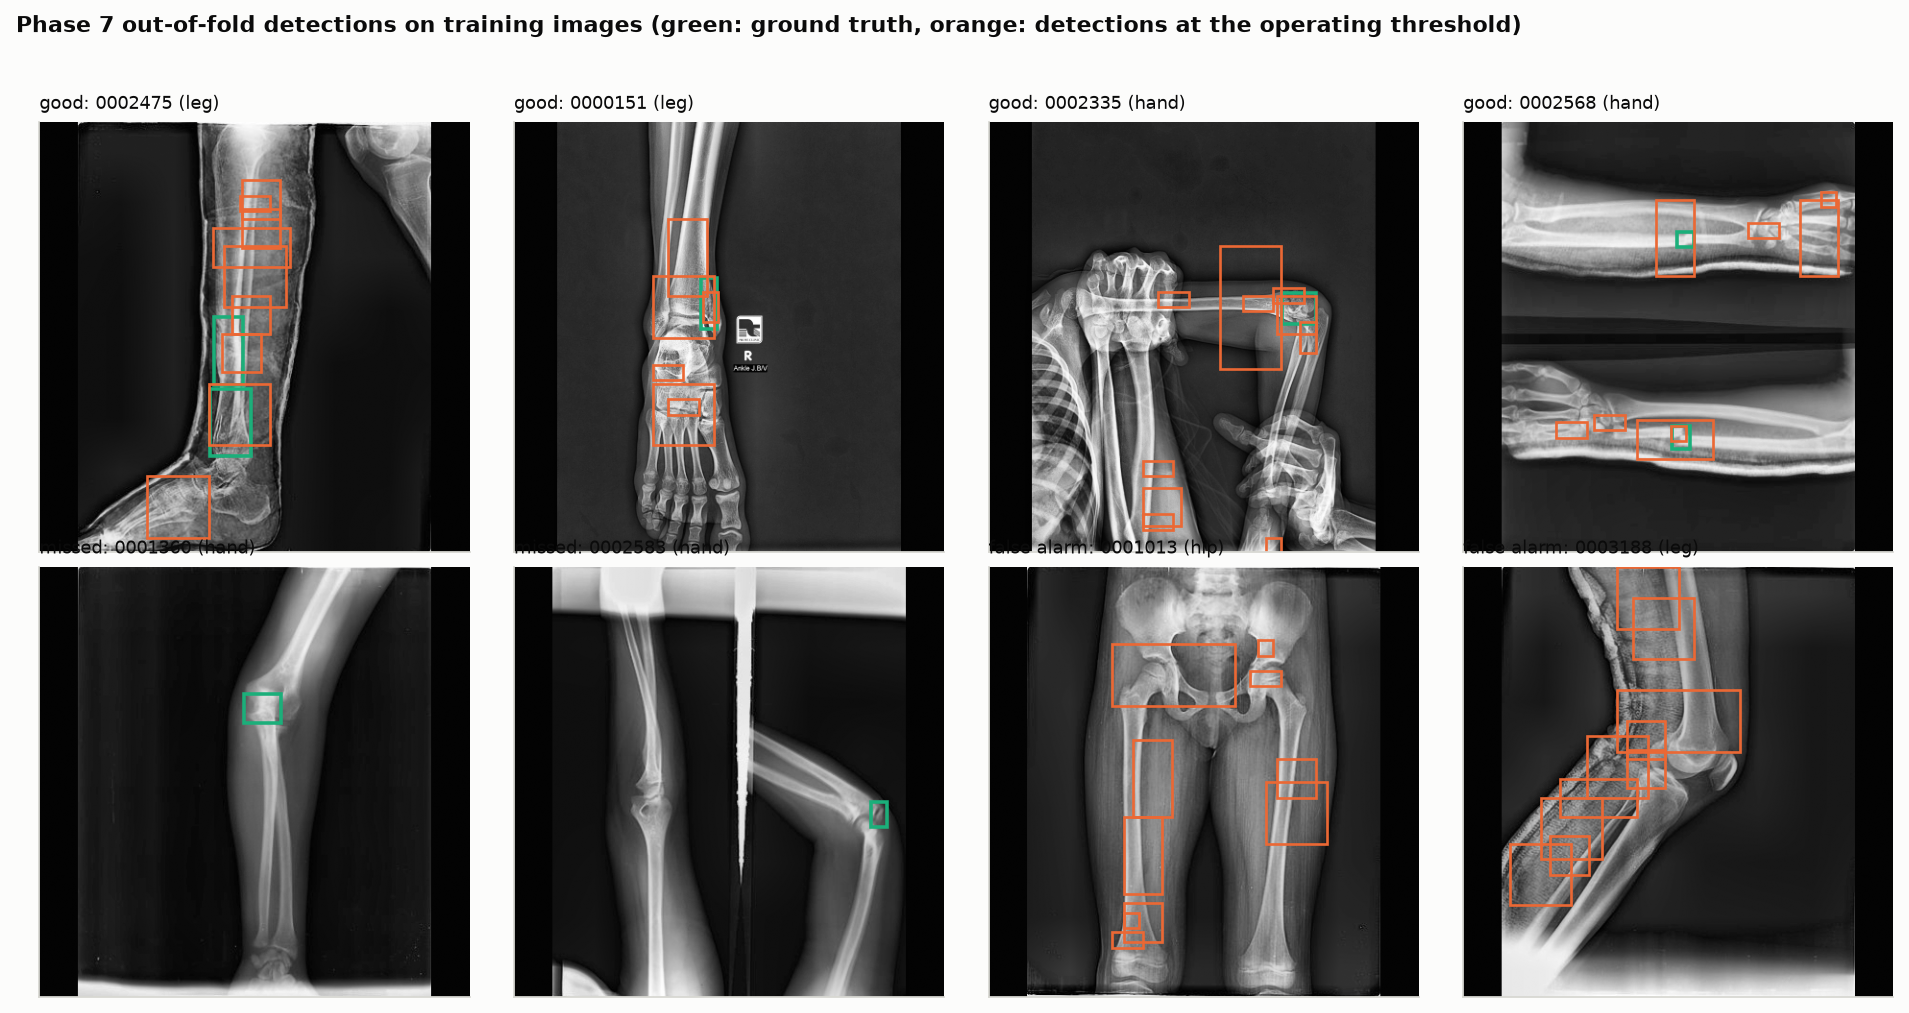
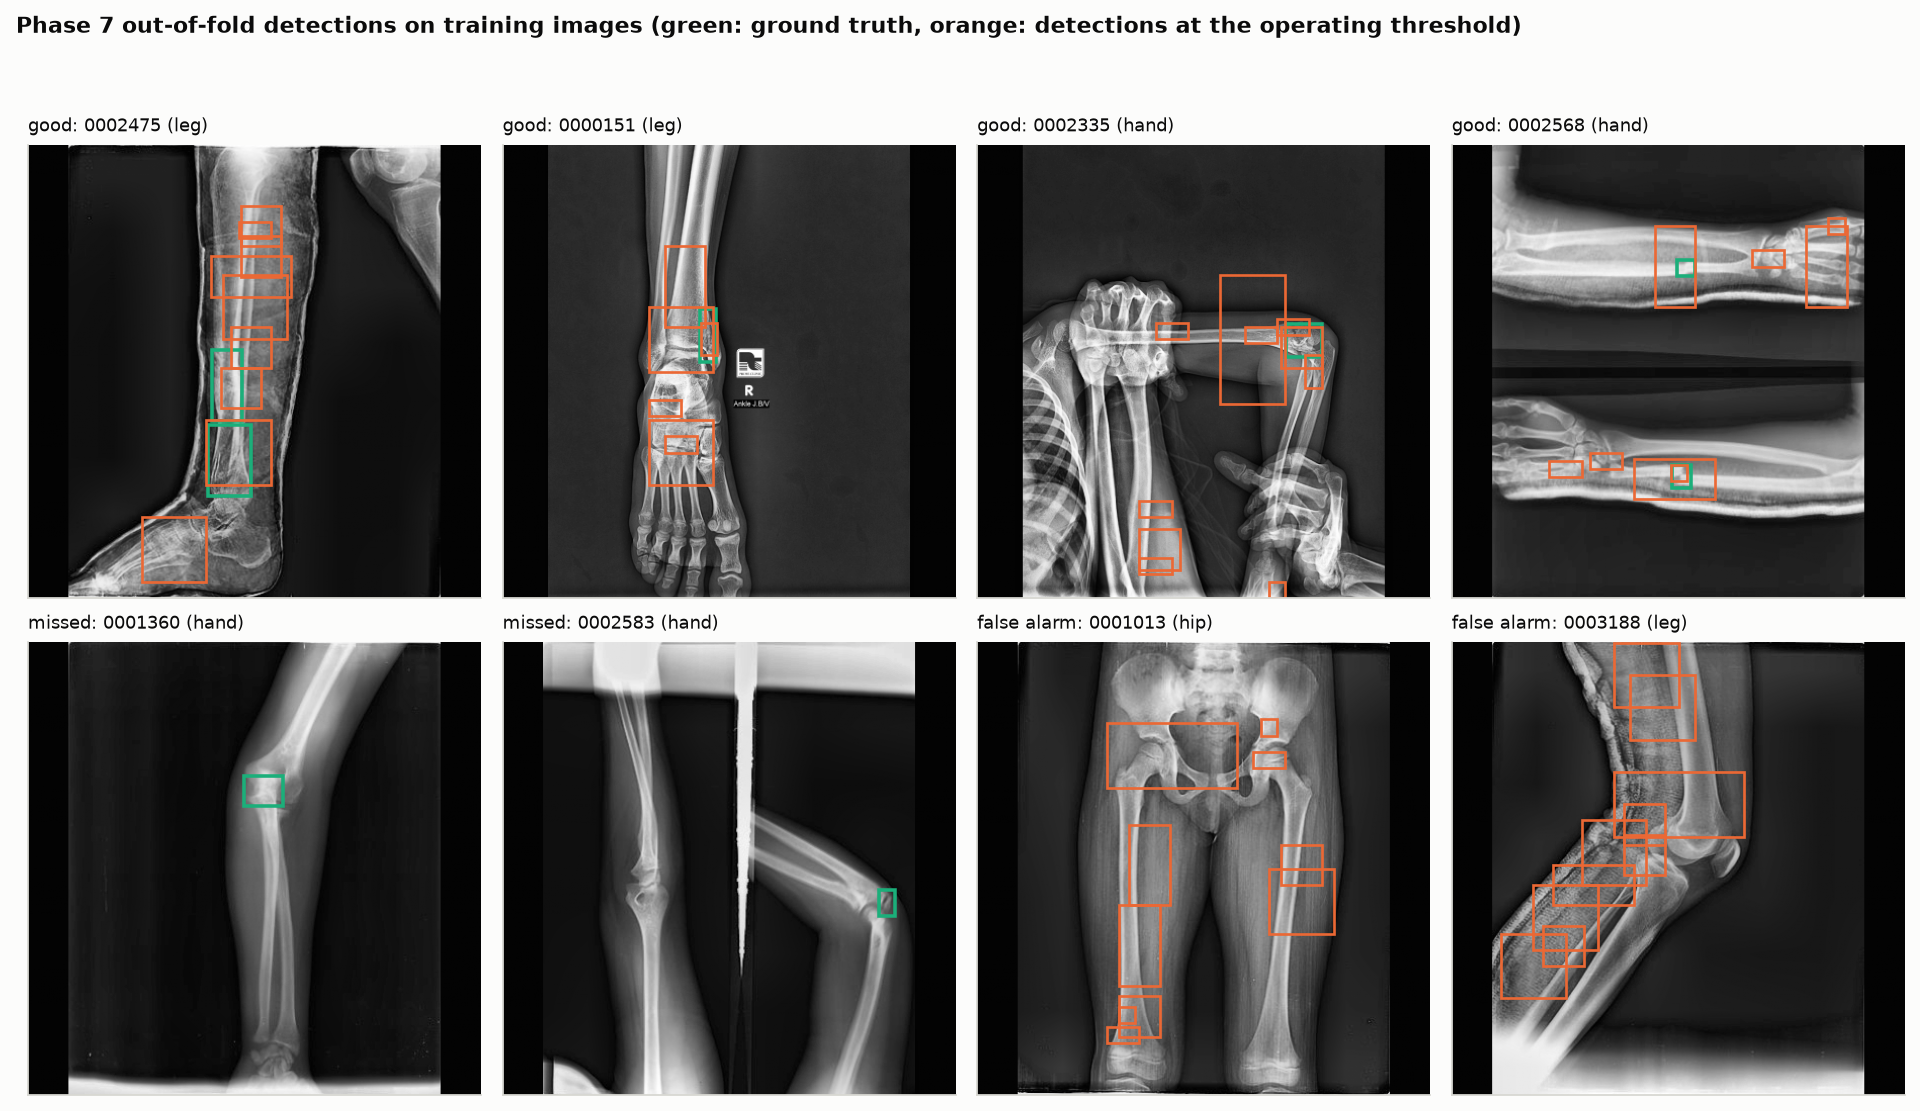
Phase 7: examples figure layout fix (bottom-row titles no longer overlap; no data change)
fig_examples: figure 12 x 7.2 in (was 6.4) and tight_layout h_pad 2.0. The figure was regenerated by
calling fig_examples on the same inputs --summarize uses (round-2 out-of-fold detections, threshold
from cv_summary.json): same 8 images, boxes and threshold. No table, summary or log row rewritten.
tests/test_phase7.py: 9/9 pass.

Changed region(s): [[0.0, 0.0918, 1.0, 1.0], [0.0, 0.0, 0.8036, 0.0306], [0.9581, 0.9793, 0.989, 1.0]]

diff --git a/src/phase7_detect.py b/src/phase7_detect.py
@@ -641,7 +641,7 @@ def fig_examples(T, det, gt, thr, figdir, n_good=4, n_bad=4):
     fp = sorted([(top.loc[i, "score"], i) for i in normal.image_id if i in top.index], reverse=True)
     picks = ([("good", i) for _, i in sorted(hit, reverse=True)[:n_good]]
              + [("missed", i) for _, i in sorted(miss)[:n_bad // 2]] + [("false alarm", i) for _, i in fp[:n_bad // 2]])
-    fig, axes = plt.subplots(2, 4, figsize=(12, 6.4))
+    fig, axes = plt.subplots(2, 4, figsize=(12, 7.2))       # tall enough that the bottom row's titles stay clear
     fp_of = dict(zip(T.image_id, T.file_path))
     reg = dict(zip(T.image_id, T.region))
     for ax, (kind, im) in zip(axes.ravel(), picks):
@@ -660,7 +660,7 @@ def fig_examples(T, det, gt, thr, figdir, n_good=4, n_bad=4):
         ax.axis("off")
     fig.suptitle("Phase 7 out-of-fold detections on training images (green: ground truth, orange: detections at the "
                  "operating threshold)", x=0.005, ha="left", fontsize=10, fontweight="bold")
-    fig.tight_layout(rect=(0, 0, 1, 0.95))
+    fig.tight_layout(rect=(0, 0, 1, 0.95), h_pad=2.0)
     save(fig, figdir / "phase7_cv_examples.png")
 
 
